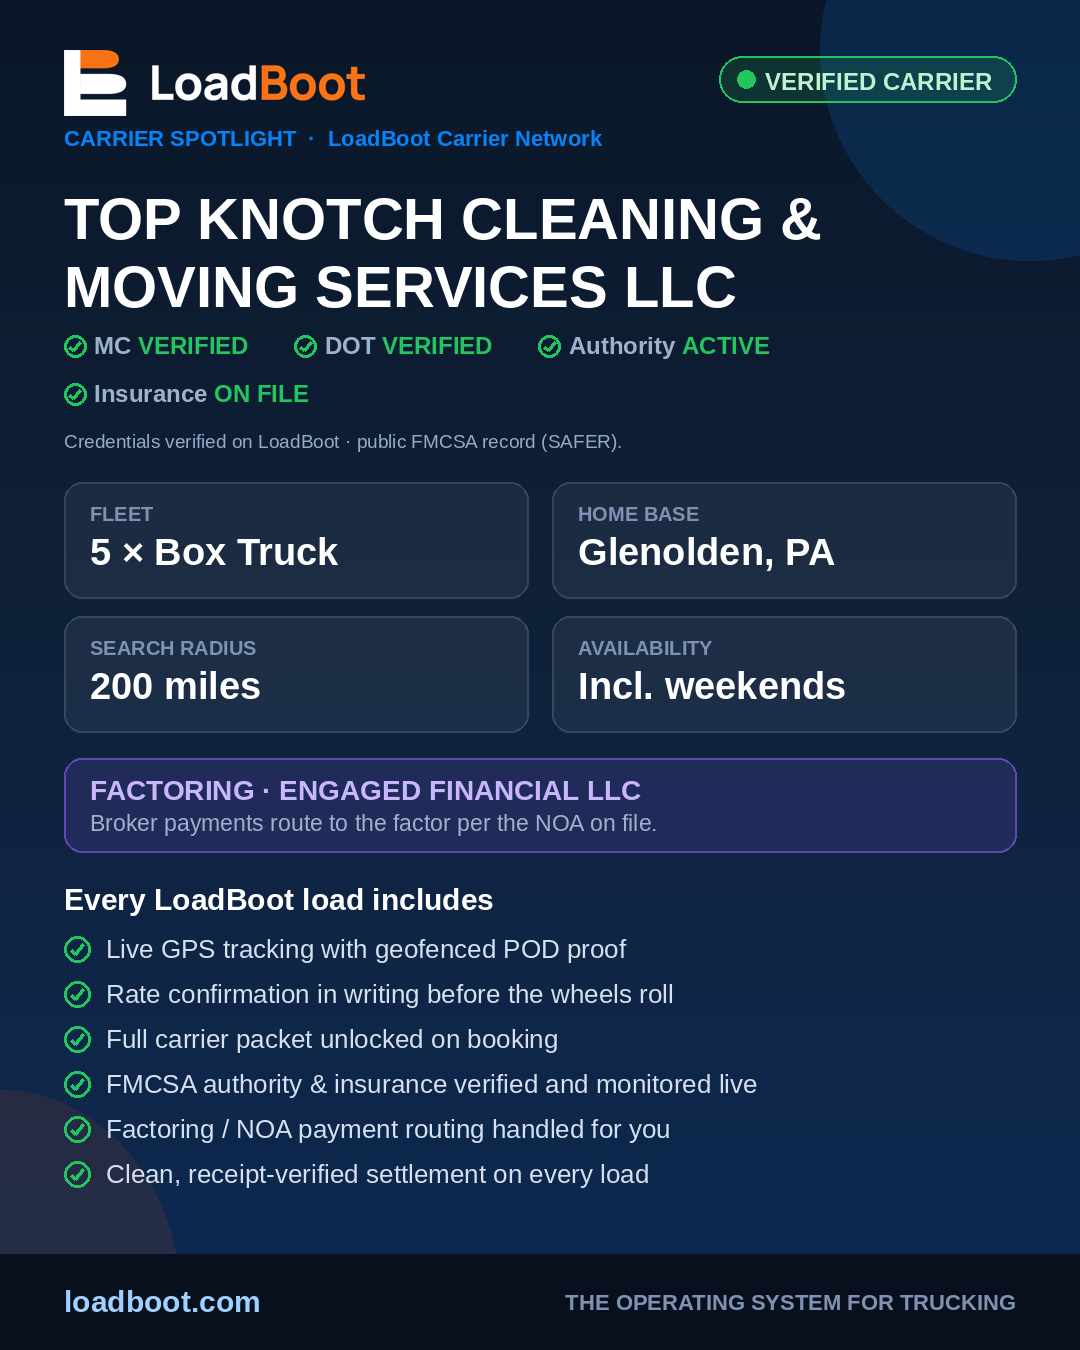
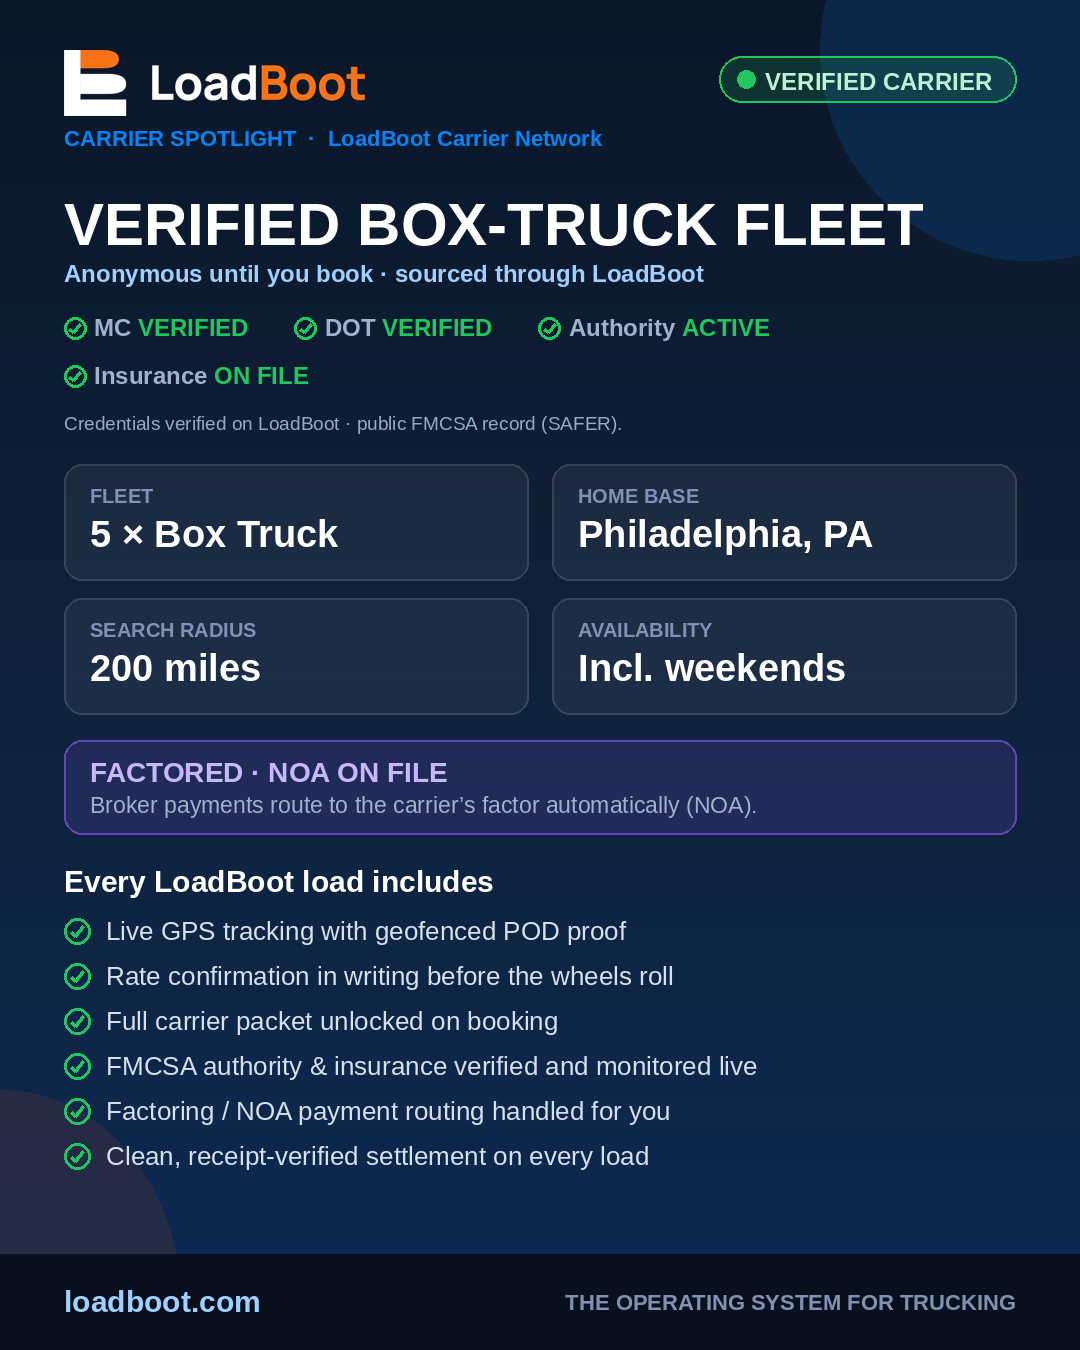
Carrier spotlight: anonymize (no company name/MC/DOT/factor) so brokers must book via LoadBoot
Banner headline -> 'Verified box-truck fleet · anonymous until you book'; home base
generalized to metro; factoring shown without the factor's name. Captions rewritten
to match (anonymous, book-through-LoadBoot).

diff --git a/docs/outreach/carrier-spotlight-topknotch-captions.md b/docs/outreach/carrier-spotlight-topknotch-captions.md
@@ -1,11 +1,9 @@
-# Carrier Spotlight — TOP KNOTCH (LinkedIn + Facebook)
+# Carrier Spotlight — Verified Box-Truck Fleet (LinkedIn + Facebook)
 
 Pair with **carrier-spotlight-topknotch.png**. Broker/shipper-facing: advertises verified box-truck
-capacity now bookable on the LoadBoot Carrier Network. Deep-SEO notes at the bottom.
-
-> Accuracy: Tarik's factoring NOA is on file and **pending LoadBoot verification** — copy says
-> "NOA on file," not "verified." Once staff clicks Verify factoring/NOA in the Command Center,
-> you can upgrade the wording to "NOA verified."
+capacity bookable on the LoadBoot Carrier Network. **The carrier stays anonymous** — no company name,
+no MC/DOT numbers, no factor name — so brokers can't look them up on FMCSA/SAFER and bypass LoadBoot.
+Booking (and the carrier's identity) happens only through LoadBoot.
 
 ---
 
@@ -13,20 +11,20 @@ capacity now bookable on the LoadBoot Carrier Network. Deep-SEO notes at the bot
 
 Need verified box truck capacity in the Philadelphia / Delaware Valley lane?
 
-Meet **TOP KNOTCH Cleaning & Moving Services LLC** — a 5-truck box truck fleet based in Glenolden, PA, now FMCSA-verified and bookable on the **LoadBoot Carrier Network**.
+We just added a **5-truck box truck fleet** to the LoadBoot Carrier Network — FMCSA-verified authority and insurance, and bookable today.
 
-📦 Equipment: box truck (moving, relocation & short-haul freight)
-📍 Home base: Glenolden, PA · 200-mile radius · runs weekends too
-✅ Authority ACTIVE · insurance on file · FMCSA cross-checked
-🏦 Factoring with Engaged Financial — an NOA is on file, so broker payments route to the factor correctly from the first load
+Equipment: box truck (moving, relocation & short-haul freight)
+Base: Greater Philadelphia, PA · 200-mile radius · runs weekends too
+Verified: MC & DOT verified · authority ACTIVE · insurance on file
+Factored with an NOA on file — broker payments route to the factor correctly from the first load
 
 Every load booked through LoadBoot comes with live GPS tracking and geofenced POD proof, a rate confirmation in writing before the wheels roll, the full carrier packet on booking, and clean, receipt-verified settlement.
 
-Box truck capacity is thin across the Northeast right now — this is exactly the short-haul, final-mile and relocation freight that the big fleets skip.
+Box truck capacity is thin across the Northeast right now — this is exactly the short-haul, final-mile and relocation freight the big fleets skip. The carrier stays anonymous until you book; you source and cover it through LoadBoot.
 
-Brokers & shippers: you can post a load directly to this carrier on LoadBoot — first to accept wins.
+Brokers & shippers: post a load to this fleet on the LoadBoot Carrier Network — first to accept wins.
 
-Who needs reliable box-truck capacity out of Philadelphia / the Northeast this quarter? 👇
+Who needs reliable box-truck capacity out of Philadelphia / the Northeast this quarter?
 
 loadboot.com
 
@@ -36,30 +34,30 @@ loadboot.com
 
 ## Facebook (a touch warmer; keywords still help search + Google indexing)
 
-🚚 New verified carrier on the LoadBoot Carrier Network — box truck capacity out of Glenolden, PA.
+New verified capacity on the LoadBoot Carrier Network — a **5-truck box truck fleet** out of the Greater Philadelphia area.
 
-**TOP KNOTCH Cleaning & Moving Services LLC** runs a 5-truck box truck fleet across a 200-mile radius of the Philadelphia / Delaware Valley area — weekends included. Authority is ACTIVE, insurance is on file, and they're factored with Engaged Financial (NOA on file), so broker payments route cleanly from load one.
+FMCSA-verified authority (ACTIVE), insurance on file, factored with an NOA — so broker payments route cleanly from load one. Runs a 200-mile radius, weekends included.
 
-Book them through LoadBoot and every load includes:
-✅ Live GPS tracking + geofenced POD proof
-✅ Rate confirmation in writing before pickup
-✅ Full carrier packet on booking
-✅ Receipt-verified settlement
+Book through LoadBoot and every load includes:
+- Live GPS tracking + geofenced POD proof
+- Rate confirmation in writing before pickup
+- Full carrier packet on booking
+- Receipt-verified settlement
 
-Box truck / moving & relocation freight in the Northeast — this is the short-haul capacity the big carriers pass on.
+Box truck / moving & relocation freight in the Northeast — the short-haul capacity the big carriers pass on. The carrier stays anonymous until you book; you cover it through LoadBoot.
 
-Brokers & shippers: post a load direct to this carrier at loadboot.com 👉
+Brokers & shippers: post a load at loadboot.com
 
 #BoxTruck #Freight #Trucking #Logistics #Carrier #Philadelphia
 
 ---
 
 ## Deep-SEO notes (why this copy)
+- **Carrier stays anonymous** — no name, no MC/DOT, no factor name. Brokers can't reverse-search FMCSA/SAFER to reach the carrier directly; sourcing and booking run through LoadBoot (this is how DAT-style carrier boards protect the marketplace).
 - **Primary keywords woven in:** box truck capacity, box truck fleet, box truck freight, verified carrier, FMCSA, carrier capacity, Philadelphia / Delaware Valley / Northeast, moving & relocation freight, short-haul / final-mile, factoring / NOA, live GPS tracking, rate confirmation, carrier packet.
-- **Box truck = a niche the big fleets skip** (shorter-haul, less-regulated, premium/faster turnaround) — leaning into that differentiates and matches how brokers actually search for this equipment.
+- **Box truck = a niche the big fleets skip** (shorter-haul, less-regulated, premium/faster turnaround) — matches how brokers actually search for this equipment.
 - **Northeast capacity is tightening in 2026** (spot rates up YoY, driver availability down) — the "capacity is thin" hook is timely and true.
-- **First 1–2 lines carry the strongest keyword hook** (that's all that shows before "see more" on LinkedIn) and the post ends with a **question** to drive comments (reach).
-- **Verification language mirrors how brokers vet** (active MC/DOT, insurance, no double-broker) — the trust angle that carriers-source content needs.
-- Hashtags are topic signals only now — 5–6 accurate ones, no more.
+- **First 1-2 lines carry the strongest keyword hook** (all that shows before "see more" on LinkedIn); the post ends with a **question** to drive comments (reach).
+- Hashtags are topic signals only now — 5-6 accurate ones, no more.
 
 Sources: freight market + box-truck/social-marketing research (ATS, CarrierSource, ACT Research, FreightWaves Ratings, Trucker Tools, CenterGrowth).